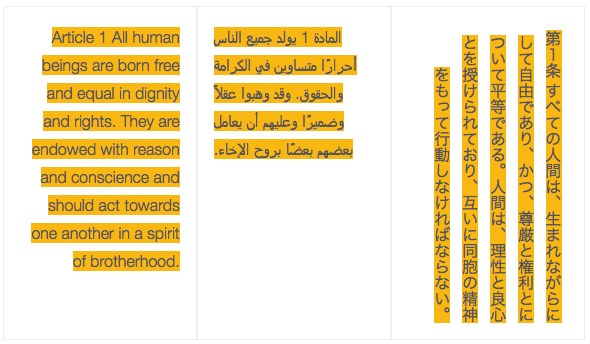
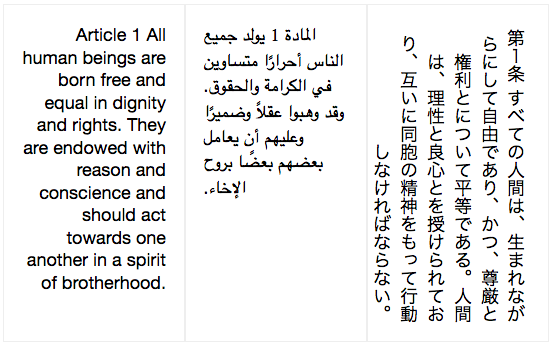
vertical-text, additional images and test file

diff --git a/articles/vertical-text-data/korean-list-upright.html b/articles/vertical-text-data/korean-list-upright.html
@@ -6,9 +6,10 @@
 <script type="text/javascript" src="source.js"></script>
 <link rel="stylesheet" type="text/css" href="source.css" />
 <style id="csssrc">
-figure {
+ol {
 	writing-mode: vertical-rl;
 	}
+li::marker { text-combine-upright: all; } 
 </style>
 
 <!-- cosmetic styling -->
